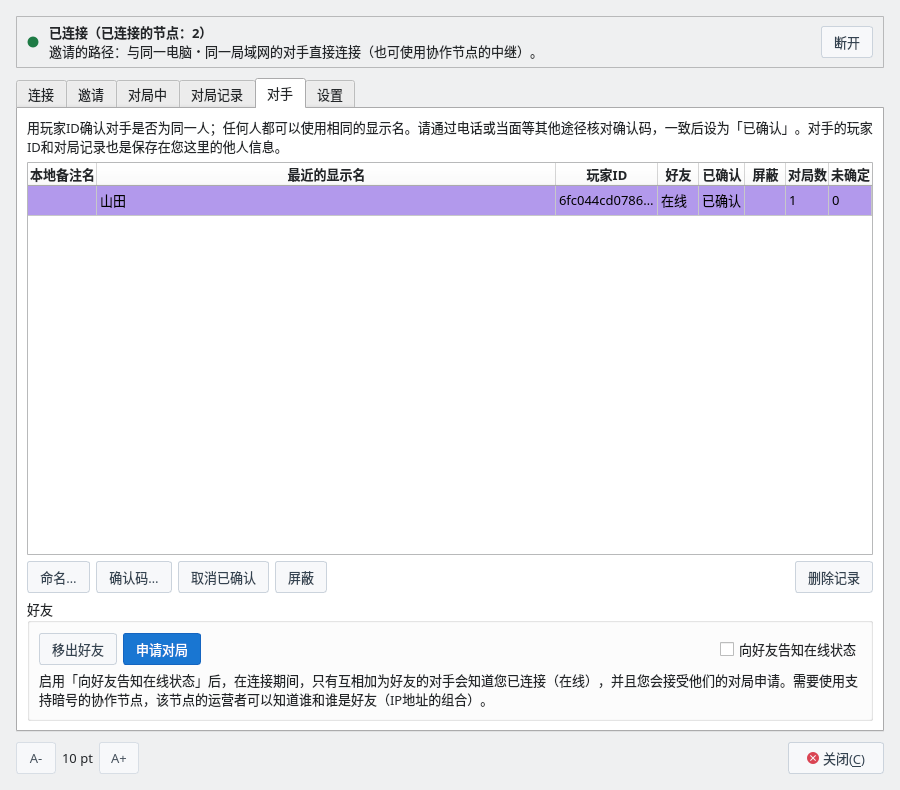
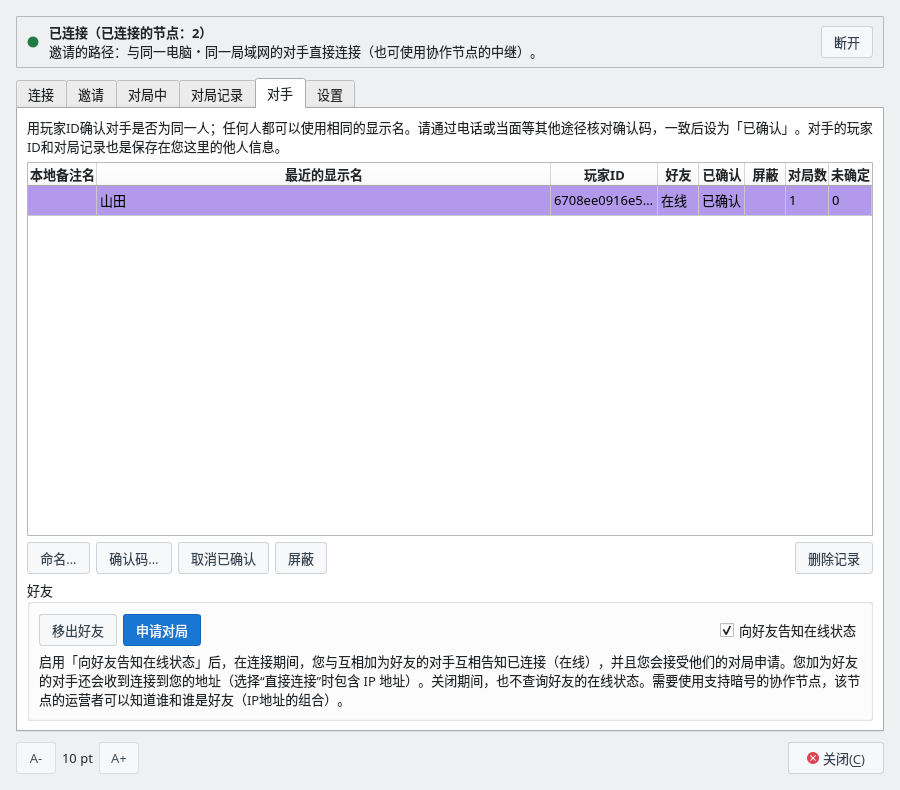
P2P対局のガイドの画像を、見本の LAN のアドレスで撮り直し、在席の説明を直す
2026-11-20〜21 に撮った「招待」タブの画像（4言語）の合言葉と招待文字列に、撮影した PC の
LAN のアドレスと docker のアドレスが入っていた（監査 2026-11-21 S15。それより前の画像は作り物の
値だった）。見本のアドレス（192.168.1.40）だけを持つネットワーク名前空間の中で撮り直す
（scripts/docs/p2p_netns.sh。外へはつながらない。次からもこれで撮る）。説明の文を変えた
「相手」タブの画像も撮り直す（双方が在席を知らせる。自分も知らせている間だけ調べるため）。

ガイド（p2p-game・p2p-direct・p2p-relay の4言語）に、友だちには接続先（直接つなぐ設定では
IP アドレス）が伝わること、在席を知らせていない間は友だちの在席も調べないこと、招待文字列に
入れるアドレスの選び方（回線のつながっていない仮想の口と、私設アドレスがあるときの loopback を
入れない）を書く。

diff --git a/docs/guide/p2p-game.html b/docs/guide/p2p-game.html
@@ -535,12 +535,12 @@
                         <tr><td><strong>ブロック／ブロックを解除</strong></td><td>その相手が招待でつないできても断ります。相手には、ほかの相手と交渉中か対局中だと伝わります。もう一度押すと解除します。</td></tr>
                         <tr><td><strong>友だちに追加／友だちから外す</strong></td><td>選んだ相手を友だちにします（64人まで。ブロックした相手は友だちにできません）。互いに友だちにした相手とは、接続しているかが分かり、招待を渡さずに対局を申し込めます。もう一度押すと外します。</td></tr>
                         <tr><td><strong>対局を申し込む</strong></td><td>「オンライン」の友だちに対局を申し込みます。相手に条件確認画面が開き、相手が「開始」を押すと対局が始まります。条件（持ち時間・先後・対局者）は、相手の「招待」タブのものを使います。</td></tr>
-                        <tr><td><strong>友だちに在席を知らせる</strong></td><td>接続している間、互いに友だちに追加した相手にだけ、接続していること（オンライン）を知らせ、対局の申し込みを受けます（既定は無効）。合言葉に対応した協力ノードを使います。協力ノードの運営者には、だれとだれが友だちか（IP アドレスの組）が分かります。</td></tr>
+                        <tr><td><strong>友だちに在席を知らせる</strong></td><td>接続している間、互いに友だちに追加した相手と、接続していること（オンライン）を知らせ合い、対局の申し込みを受けます（既定は無効）。無効の間は、友だちの在席も調べません。友だちに追加した相手には、あなたへの接続先（「直接つなぐ」では IP アドレス）も伝わります。合言葉に対応した協力ノードを使います。協力ノードの運営者には、だれとだれが友だちか（IP アドレスの組）が分かります。</td></tr>
                         <tr><td><strong>記録を削除</strong></td><td>その相手の名前・確認済み・ブロック・対局数の記録を消します。</td></tr>
                     </tbody>
                 </table>
                 <p class="guide-step-text">プレイヤー鍵はだれでも無料で作り直せるので、ブロックや過去の成績は作り直しで避けられます。</p>
-                <p class="guide-step-text">友だちの在席と申し込みには、2人とも、合言葉に対応した協力ノード（<code>--meet</code> を付けて起動したもの。<a href="p2p-relay.html#start">協力ノードを起動する</a>）を「接続」タブで登録して接続します。相手に「オンライン」と出るのは、このタブの「友だちに在席を知らせる」を有効にした人だけです（既定は無効）。互いに友だちに追加していなければ、どちらにも出ません。対局中・交渉中の相手は、オンラインと出ません。在席は、このタブを開いている間、1分ごとに調べ直します。</p>
+                <p class="guide-step-text">友だちの在席と申し込みには、2人とも、合言葉に対応した協力ノード（<code>--meet</code> を付けて起動したもの。<a href="p2p-relay.html#start">協力ノードを起動する</a>）を「接続」タブで登録して接続します。相手に「オンライン」と出るのは、このタブの「友だちに在席を知らせる」を有効にした人だけです（既定は無効）。友だちの在席を調べるのも、自分が有効にしている間だけです。互いに友だちに追加していなければ、どちらにも出ません。対局中・交渉中の相手は、オンラインと出ません。在席は、このタブを開いている間、1分ごとに調べ直します。</p>
             </div>
 
             <div class="guide-step">
@@ -854,9 +854,9 @@
                     </thead>
                     <tbody>
                         <tr><td><strong>対局相手</strong></td><td>プレイヤーID・表示名・条件。直接つなぐと、通信を調べれば IP アドレスも分かります（画面には出ません）。「協力ノードの中継だけを使う」にしていれば分かりません</td></tr>
-                        <tr><td><strong>友だちにした相手</strong></td><td>「友だちに在席を知らせる」を有効にして接続している間、あなたが接続していること（相手もあなたを友だちにしているときだけ）。申し込んでつながれば、対局相手と同じです</td></tr>
-                        <tr><td><strong>招待文字列・合言葉を見た人</strong></td><td>招待した側への接続先（直接つなぐ設定では IP アドレスが入ります。「同じPC・同じLAN」では、このPCのLANの中のアドレスがすべて入り、VPN や仮想の機器のアドレスも含みます。合言葉には、そのうち4件までが入ります。協力ノードを使う合言葉には接続先が入っていませんが、期限の間は、その合言葉で協力ノードから招待を受け取れます）</td></tr>
-                        <tr><td><strong>協力ノードの運営者</strong></td><td>IP アドレスと、どの IP どうしがつないだか。到達性の確認では、協力ノードから見えたあなたのアドレスを確かめてもらうだけで、LANの中のアドレスは送りません。合言葉に対応した協力ノードは、暗号化された招待を10分まで預かりますが、中身は読めません。指し手・プレイヤーID・表示名は見えません「友だちに在席を知らせる」を使う人については、だれとだれが友だちか（同じ番号を預けた IP アドレスと、引き取った IP アドレスの組）も分かります。</td></tr>
+                        <tr><td><strong>友だちにした相手</strong></td><td>「友だちに在席を知らせる」を有効にして接続している間、あなたが接続していることと、あなたへの接続先（「直接つなぐ」では IP アドレス。招待文字列と同じもの）。ShogiBoardQ は相手もあなたを友だちにしているときだけ読みますが、改造したアプリなら、あなたが友だちに追加しただけで読めます。申し込んでつながれば、対局相手と同じです</td></tr>
+                        <tr><td><strong>招待文字列・合言葉を見た人</strong></td><td>招待した側への接続先（直接つなぐ設定では IP アドレスが入ります。「同じPC・同じLAN」では、このPCのLANの中のアドレスが入ります（VPN など、使っているネットワークの口のアドレスも含みます。回線のつながっていない仮想の機器のアドレスは、Linux では入りません）。合言葉には、そのうち4件までが入ります。協力ノードを使う合言葉には接続先が入っていませんが、期限の間は、その合言葉で協力ノードから招待を受け取れます）</td></tr>
+                        <tr><td><strong>協力ノードの運営者</strong></td><td>IP アドレスと、どの IP どうしがつないだか。到達性の確認では、協力ノードから見えたあなたのアドレスを確かめてもらうだけで、LANの中のアドレスは送りません。合言葉に対応した協力ノードは、暗号化された招待を10分まで預かりますが、中身は読めません。指し手・プレイヤーID・表示名は見えません。「友だちに在席を知らせる」を使う人については、だれとだれが友だちか（同じ番号を預けた IP アドレスと、引き取った IP アドレスの組）も分かります。</td></tr>
                         <tr><td><strong>同じLANの機器</strong></td><td>「同じPC・同じLAN」で接続している間、このPCで P2P対局を動かしていること（待ち受けているポートにつなげば分かります）。招待文字列や合言葉がなければ、このPCのアドレスの一覧も対局も見えません</td></tr>
                         <tr><td><strong>対局記録（証跡）を受け取った人</strong></td><td>双方のプレイヤーID・条件・対局を始めたおおよその日時・全手順と自己申告の消費時間・双方で確定した結果。表示名・IPアドレス・手元で付けた名前は残りません</td></tr>
                     </tbody>

diff --git a/docs/en/guide/p2p-game.html b/docs/en/guide/p2p-game.html
@@ -535,12 +535,12 @@
                         <tr><td><strong>Block / Unblock</strong></td><td>Refuses that opponent even if they connect with an invitation. They are told you are busy negotiating or playing with someone else. Click again to unblock.</td></tr>
                         <tr><td><strong>Add Friend / Remove Friend</strong></td><td>Makes the selected opponent a friend (up to 64; a blocked opponent cannot be a friend). With an opponent who has also added you, you can see whether they are connected and ask for a game without passing an invitation. Click again to remove.</td></tr>
                         <tr><td><strong>Ask for a Game</strong></td><td>Asks a friend who is Online for a game. The confirmation screen opens on their side, and the game starts when they click Start. The conditions (time control, side, and player) are those on their Invitation tab.</td></tr>
-                        <tr><td><strong>Tell friends when I am online</strong></td><td>While you are connected, tells only the opponents who have added you as a friend and whom you have added that you are connected (Online), and accepts their requests for a game (off by default). It uses a cooperating node that supports passcodes. The operator of that node can tell who is friends with whom (as pairs of IP addresses).</td></tr>
+                        <tr><td><strong>Tell friends when I am online</strong></td><td>While you are connected, you and the opponents you have added as friends who have also added you tell each other that you are connected (Online), and you accept their requests for a game (off by default). While it is off, the app does not check your friends either. Opponents you have added as friends also receive the address to connect to you (your IP address with Connect directly). It uses a cooperating node that supports passcodes. The operator of that node can tell who is friends with whom (as pairs of IP addresses).</td></tr>
                         <tr><td><strong>Delete Record</strong></td><td>Removes the opponent's name, verified mark, block, and game count.</td></tr>
                     </tbody>
                 </table>
                 <p class="guide-step-text">Anyone can create a new player key for free, so a block or past results can be avoided by recreating the key.</p>
-                <p class="guide-step-text">To see friends online and ask them for a game, both players register a cooperating node that supports passcodes (one started with <code>--meet</code>; see <a href="p2p-relay.html#start">Start a Cooperating Node</a>) on the Connection tab and connect. Only a player who has turned on Tell friends when I am online on this tab (off by default) shows as Online to the other. Unless each has added the other as a friend, neither shows. An opponent who is playing or negotiating does not show as Online. While this tab is open, it checks again every minute.</p>
+                <p class="guide-step-text">To see friends online and ask them for a game, both players register a cooperating node that supports passcodes (one started with <code>--meet</code>; see <a href="p2p-relay.html#start">Start a Cooperating Node</a>) on the Connection tab and connect. Only a player who has turned on Tell friends when I am online on this tab (off by default) shows as Online to the other. The app also checks your friends only while you have it turned on. Unless each has added the other as a friend, neither shows. An opponent who is playing or negotiating does not show as Online. While this tab is open, it checks again every minute.</p>
             </div>
 
             <div class="guide-step">
@@ -854,9 +854,9 @@
                     </thead>
                     <tbody>
                         <tr><td><strong>Your opponent</strong></td><td>Your player ID, display name, and conditions. With a direct connection, they can also find your IP address by inspecting the traffic (it is not shown on screen). With Relay only (via a cooperating node), they cannot</td></tr>
-                        <tr><td><strong>An opponent you added as a friend</strong></td><td>That you are connected, while you are connected with Tell friends when I am online turned on (only if they have also added you as a friend). Once they ask and connect, the same as an opponent</td></tr>
-                        <tr><td><strong>Anyone who sees the invitation string or passcode</strong></td><td>The addresses for reaching the inviter (including the IP address when direct connections are used. With “Same PC / same LAN”, all of this PC's LAN addresses are included, also those of VPNs and virtual devices; a passcode contains up to four of them. A passcode that uses a cooperating node contains no address, but until it expires, the invitation can be collected from the cooperating node with it)</td></tr>
-                        <tr><td><strong>The operator of the cooperating node</strong></td><td>IP addresses and which IP addresses connected to each other. The reachability check only asks the node to test the address it saw; your LAN addresses are not sent. A cooperating node that supports passcodes keeps the encrypted invitation for up to 10 minutes but cannot read it. Not the moves, player IDs, or display names For users of Tell friends when I am online, also who is friends with whom (the pairs of IP addresses that deposited and collected the same number).</td></tr>
+                        <tr><td><strong>An opponent you added as a friend</strong></td><td>While you are connected with Tell friends when I am online turned on, that you are connected and the address to connect to you (your IP address with Connect directly; the same as in an invitation string). ShogiBoardQ reads it only if they have also added you as a friend, but a modified app can read it as soon as you add them. Once they ask and connect, the same as an opponent</td></tr>
+                        <tr><td><strong>Anyone who sees the invitation string or passcode</strong></td><td>The addresses for reaching the inviter (including the IP address when direct connections are used. With “Same PC / same LAN”, this PC's LAN addresses are included (also those of network interfaces in use, such as VPNs, but, on Linux, not those of virtual devices whose link is down); a passcode contains up to four of them. A passcode that uses a cooperating node contains no address, but until it expires, the invitation can be collected from the cooperating node with it)</td></tr>
+                        <tr><td><strong>The operator of the cooperating node</strong></td><td>IP addresses and which IP addresses connected to each other. The reachability check only asks the node to test the address it saw; your LAN addresses are not sent. A cooperating node that supports passcodes keeps the encrypted invitation for up to 10 minutes but cannot read it. Not the moves, player IDs, or display names. For users of Tell friends when I am online, also who is friends with whom (the pairs of IP addresses that deposited and collected the same number).</td></tr>
                         <tr><td><strong>Devices on the same LAN</strong></td><td>While you are connected with “Same PC / same LAN”, that this PC is running P2P play (anyone who connects to the listening port can tell). Without the invitation string or passcode, they see neither this PC's list of addresses nor the game</td></tr>
                         <tr><td><strong>Anyone who receives the game record (evidence)</strong></td><td>Both player IDs, the conditions, the approximate date and time the game started, all moves with self-reported time, and the result confirmed by both. Display names, IP addresses, and local names are not kept</td></tr>
                     </tbody>

diff --git a/docs/zh-tw/guide/p2p-game.html b/docs/zh-tw/guide/p2p-game.html
@@ -535,12 +535,12 @@
                         <tr><td><strong>封鎖／解除封鎖</strong></td><td>即使該對手透過邀請連線也會拒絕。對方會被告知您正在與他人協商或對局。再按一次可解除。</td></tr>
                         <tr><td><strong>加為好友／移出好友</strong></td><td>把選取的對手加為好友（最多 64 人。已封鎖的對手不能加為好友）。對於互相加為好友的對手，可以知道對方是否已連線，不需要傳遞邀請就能申請對局。再按一次則移出。</td></tr>
                         <tr><td><strong>申請對局</strong></td><td>向「線上」的好友申請對局。對方會開啟條件確認畫面，對方按「開始」後對局開始。條件（用時規則、先後手、對局者）使用對方「邀請」分頁中的設定。</td></tr>
-                        <tr><td><strong>向好友告知上線狀態</strong></td><td>在連線期間，只向互相加為好友的對手告知您已連線（線上），並接受他們的對局申請（預設關閉）。需要使用支援暗號的協作節點。協作節點的營運者可以知道誰和誰是好友（IP 位址的組合）。</td></tr>
+                        <tr><td><strong>向好友告知上線狀態</strong></td><td>在連線期間，與互相加為好友的對手互相告知已連線（線上），並接受他們的對局申請（預設關閉）。關閉期間，也不查詢好友的上線狀態。您加為好友的對手還會收到連線到您的位址（選擇「直接連線」時包含 IP 位址）。需要使用支援暗號的協作節點。協作節點的營運者可以知道誰和誰是好友（IP 位址的組合）。</td></tr>
                         <tr><td><strong>刪除記錄</strong></td><td>刪除該對手的名稱、已確認、封鎖和對局數的記錄。</td></tr>
                     </tbody>
                 </table>
                 <p class="guide-step-text">任何人都可以免費重新產生玩家金鑰，因此封鎖和過去的成績可以透過重新產生來規避。</p>
-                <p class="guide-step-text">要查看好友的上線狀態並申請對局，雙方都要在「連線」分頁註冊支援暗號的協作節點（加上 <code>--meet</code> 啟動的節點。<a href="p2p-relay.html#start">啟動協作節點</a>）並連線。只有在此分頁中啟用了「向好友告知上線狀態」的人（預設關閉），才會在對方那裡顯示為「線上」。沒有互相加為好友時，雙方都不會顯示。對局中、協商中的對手不顯示為線上。開啟此分頁期間，每分鐘重新查詢一次。</p>
+                <p class="guide-step-text">要查看好友的上線狀態並申請對局，雙方都要在「連線」分頁註冊支援暗號的協作節點（加上 <code>--meet</code> 啟動的節點。<a href="p2p-relay.html#start">啟動協作節點</a>）並連線。只有在此分頁中啟用了「向好友告知上線狀態」的人（預設關閉），才會在對方那裡顯示為「線上」。查詢好友的上線狀態，也只在自己啟用期間進行。沒有互相加為好友時，雙方都不會顯示。對局中、協商中的對手不顯示為線上。開啟此分頁期間，每分鐘重新查詢一次。</p>
             </div>
 
             <div class="guide-step">
@@ -854,9 +854,9 @@
                     </thead>
                     <tbody>
                         <tr><td><strong>對局對手</strong></td><td>玩家ID、顯示名稱、條件。直接連線時，對手查看通訊還能得知 IP 位址（畫面上不顯示）。選擇「僅使用協作節點的中繼」後無法得知</td></tr>
-                        <tr><td><strong>加為好友的對手</strong></td><td>在啟用「向好友告知上線狀態」並連線期間，您已連線這件事（僅當對方也把您加為好友時）。對方申請並連線後，與對局對手相同</td></tr>
-                        <tr><td><strong>看到邀請字串、暗號的人</strong></td><td>連線到邀請方的位址（使用直接連線的設定時包含 IP 位址。在「同一電腦・同一區域網路」中，包含這台電腦在區域網路內的全部位址，也包括 VPN 和虛擬裝置的位址。暗號中包含其中最多 4 個。使用協作節點的暗號中不包含連線位址，但在期限內，可以用該暗號從協作節點取回邀請）</td></tr>
-                        <tr><td><strong>協作節點的營運者</strong></td><td>IP 位址，以及哪些 IP 位址之間建立了連線。確認可達性時，只請協作節點確認它看到的你的位址，不傳送區域網路內的位址。支援暗號的協作節點最多存放加密的邀請 10 分鐘，但無法讀取其內容。看不到著手、玩家ID 和顯示名稱對於使用「向好友告知上線狀態」的人，還能知道誰和誰是好友（存放同一個編號的 IP 位址與取回它的 IP 位址的組合）。</td></tr>
+                        <tr><td><strong>加為好友的對手</strong></td><td>在啟用「向好友告知上線狀態」並連線期間，您已連線這件事，以及連線到您的位址（選擇「直接連線」時包含 IP 位址，與邀請字串中的相同）。ShogiBoardQ 僅在對方也把您加為好友時讀取，但經過修改的應用程式只要您把對方加為好友就能讀取。對方申請並連線後，與對局對手相同</td></tr>
+                        <tr><td><strong>看到邀請字串、暗號的人</strong></td><td>連線到邀請方的位址（使用直接連線的設定時包含 IP 位址。在「同一電腦・同一區域網路」中，包含這台電腦在區域網路內的位址（也包括 VPN 等正在使用的網路介面的位址，在 Linux 上不包括線路未連接的虛擬裝置的位址）。暗號中包含其中最多 4 個。使用協作節點的暗號中不包含連線位址，但在期限內，可以用該暗號從協作節點取回邀請）</td></tr>
+                        <tr><td><strong>協作節點的營運者</strong></td><td>IP 位址，以及哪些 IP 位址之間建立了連線。確認可達性時，只請協作節點確認它看到的你的位址，不傳送區域網路內的位址。支援暗號的協作節點最多存放加密的邀請 10 分鐘，但無法讀取其內容。看不到著手、玩家ID 和顯示名稱。對於使用「向好友告知上線狀態」的人，還能知道誰和誰是好友（存放同一個編號的 IP 位址與取回它的 IP 位址的組合）。</td></tr>
                         <tr><td><strong>同一區域網路內的裝置</strong></td><td>以「同一電腦・同一區域網路」連線期間，能得知這台電腦正在執行 P2P 對局（連線到監聽連接埠即可知道）。沒有邀請字串或暗號時，看不到這台電腦的位址清單，也看不到對局</td></tr>
                         <tr><td><strong>收到對局記錄（憑證）的人</strong></td><td>雙方的玩家ID、條件、對局開始的大致日期與時間、全部著手與自報用時、雙方確定的結果。不保存顯示名稱、IP 位址和本機備註名稱</td></tr>
                     </tbody>

diff --git a/docs/zh-cn/guide/p2p-game.html b/docs/zh-cn/guide/p2p-game.html
@@ -535,12 +535,12 @@
                         <tr><td><strong>屏蔽／解除屏蔽</strong></td><td>即使该对手通过邀请连接也会拒绝。对方会被告知您正在与他人协商或对局。再次点击可解除。</td></tr>
                         <tr><td><strong>加为好友／移出好友</strong></td><td>把选中的对手加为好友（最多 64 人。已屏蔽的对手不能加为好友）。对于互相加为好友的对手，可以知道对方是否已连接，不需要传递邀请就能申请对局。再点一次则移出。</td></tr>
                         <tr><td><strong>申请对局</strong></td><td>向“在线”的好友申请对局。对方会打开条件确认画面，对方点击“开始”后对局开始。条件（用时规则、先后手、对局者）使用对方“邀请”标签页中的设置。</td></tr>
-                        <tr><td><strong>向好友告知在线状态</strong></td><td>在连接期间，只向互相加为好友的对手告知您已连接（在线），并接受他们的对局申请（默认关闭）。需要使用支持暗号的协作节点。协作节点的运营者可以知道谁和谁是好友（IP 地址的组合）。</td></tr>
+                        <tr><td><strong>向好友告知在线状态</strong></td><td>在连接期间，与互相加为好友的对手互相告知已连接（在线），并接受他们的对局申请（默认关闭）。关闭期间，也不查询好友的在线状态。您加为好友的对手还会收到连接到您的地址（选择“直接连接”时包含 IP 地址）。需要使用支持暗号的协作节点。协作节点的运营者可以知道谁和谁是好友（IP 地址的组合）。</td></tr>
                         <tr><td><strong>删除记录</strong></td><td>删除该对手的名称、已确认、屏蔽和对局数的记录。</td></tr>
                     </tbody>
                 </table>
                 <p class="guide-step-text">任何人都可以免费重新生成玩家密钥，因此屏蔽和过去的成绩可以通过重新生成来规避。</p>
-                <p class="guide-step-text">要查看好友的在线状态并申请对局，双方都要在“连接”标签页中注册支持暗号的协作节点（加上 <code>--meet</code> 启动的节点。<a href="p2p-relay.html#start">启动协作节点</a>）并连接。只有在此标签页中启用了“向好友告知在线状态”的人（默认关闭），才会在对方那里显示为“在线”。没有互相加为好友时，双方都不会显示。对局中、协商中的对手不显示为在线。打开此标签页期间，每分钟重新查询一次。</p>
+                <p class="guide-step-text">要查看好友的在线状态并申请对局，双方都要在“连接”标签页中注册支持暗号的协作节点（加上 <code>--meet</code> 启动的节点。<a href="p2p-relay.html#start">启动协作节点</a>）并连接。只有在此标签页中启用了“向好友告知在线状态”的人（默认关闭），才会在对方那里显示为“在线”。查询好友的在线状态，也只在自己启用期间进行。没有互相加为好友时，双方都不会显示。对局中、协商中的对手不显示为在线。打开此标签页期间，每分钟重新查询一次。</p>
             </div>
 
             <div class="guide-step">
@@ -854,9 +854,9 @@
                     </thead>
                     <tbody>
                         <tr><td><strong>对局对手</strong></td><td>玩家ID、显示名、条件。直接连接时，对手查看通信还能得知 IP 地址（画面上不显示）。选择“仅使用协作节点的中继”后无法得知</td></tr>
-                        <tr><td><strong>加为好友的对手</strong></td><td>在启用“向好友告知在线状态”并连接期间，您已连接这件事（仅当对方也把您加为好友时）。对方申请并连接后，与对局对手相同</td></tr>
-                        <tr><td><strong>看到邀请字符串、暗号的人</strong></td><td>连接到邀请方的地址（使用直接连接的设置时包含 IP 地址。在“同一电脑・同一局域网”中，包含这台电脑在局域网内的全部地址，也包括 VPN 和虚拟设备的地址。暗号中包含其中最多 4 个。使用协作节点的暗号中不包含连接地址，但在期限内，可以用该暗号从协作节点取回邀请）</td></tr>
-                        <tr><td><strong>协作节点的运营者</strong></td><td>IP 地址，以及哪些 IP 地址之间建立了连接。确认可达性时，只请协作节点确认它看到的你的地址，不发送局域网内的地址。支持暗号的协作节点最多存放加密的邀请 10 分钟，但无法读取其内容。看不到着手、玩家ID 和显示名对于使用“向好友告知在线状态”的人，还能知道谁和谁是好友（存放同一个编号的 IP 地址与取回它的 IP 地址的组合）。</td></tr>
+                        <tr><td><strong>加为好友的对手</strong></td><td>在启用“向好友告知在线状态”并连接期间，您已连接这件事，以及连接到您的地址（选择“直接连接”时包含 IP 地址，与邀请字符串中的相同）。ShogiBoardQ 仅在对方也把您加为好友时读取，但经过改造的应用只要您把对方加为好友就能读取。对方申请并连接后，与对局对手相同</td></tr>
+                        <tr><td><strong>看到邀请字符串、暗号的人</strong></td><td>连接到邀请方的地址（使用直接连接的设置时包含 IP 地址。在“同一电脑・同一局域网”中，包含这台电脑在局域网内的地址（也包括 VPN 等正在使用的网络接口的地址，在 Linux 上不包括线路未连接的虚拟设备的地址）。暗号中包含其中最多 4 个。使用协作节点的暗号中不包含连接地址，但在期限内，可以用该暗号从协作节点取回邀请）</td></tr>
+                        <tr><td><strong>协作节点的运营者</strong></td><td>IP 地址，以及哪些 IP 地址之间建立了连接。确认可达性时，只请协作节点确认它看到的你的地址，不发送局域网内的地址。支持暗号的协作节点最多存放加密的邀请 10 分钟，但无法读取其内容。看不到着手、玩家ID 和显示名。对于使用“向好友告知在线状态”的人，还能知道谁和谁是好友（存放同一个编号的 IP 地址与取回它的 IP 地址的组合）。</td></tr>
                         <tr><td><strong>同一局域网内的设备</strong></td><td>以“同一电脑・同一局域网”连接期间，能得知这台电脑正在运行 P2P 对局（连接到监听端口即可知道）。没有邀请字符串或暗号时，看不到这台电脑的地址列表，也看不到对局</td></tr>
                         <tr><td><strong>收到对局记录（凭证）的人</strong></td><td>双方的玩家ID、条件、对局开始的大致日期和时间、全部着手与自报用时、双方确定的结果。不保存显示名、IP 地址和本地备注名</td></tr>
                     </tbody>

diff --git a/docs/guide/p2p-direct.html b/docs/guide/p2p-direct.html
@@ -124,7 +124,7 @@
                 <ul class="guide-step-text">
                     <li><strong>「協力ノード」</strong>：登録しなくてかまいません。「同じPC・同じLAN」で「直接つなぐ（既定）」を選んでいる間は、欄も出ません（「この設定では要りません。…」と出ます）。</li>
                     <li><strong>「相手とのつなぎ方」</strong>：「直接つなぐ（既定）」のままにします。「協力ノードの中継だけを使う」を選ぶと、LANの中の直接の接続も使わなくなり、協力ノードを登録していなければつながりません（「このままでは、中継を使えません」と出ます）。</li>
-                    <li><strong>相手に見えるアドレス</strong>：LANの中のアドレスだけです。インターネット上の IP アドレスは相手に渡りません。招待文字列には、このPCのLANの中のアドレスがすべて入ります（VPN や仮想の機器のアドレスも含みます）。合言葉にも、LANの中のアドレスが入ります。招待文字列と合言葉は、相手だけに伝えてください。</li>
+                    <li><strong>相手に見えるアドレス</strong>：LANの中のアドレスだけです。インターネット上の IP アドレスは相手に渡りません。招待文字列には、このPCのLANの中のアドレスが入ります（VPN など、使っているネットワークの口のアドレスも含みます。回線のつながっていない仮想の機器のアドレスは、Linux では入りません）。合言葉にも、LANの中のアドレスが入ります。招待文字列と合言葉は、相手だけに伝えてください。</li>
                     <li><strong>使用期限</strong>：ありません。ビルドから180日を過ぎても使えます（期限があるのは「インターネット」だけです）。</li>
                 </ul>
             </div>
@@ -358,7 +358,7 @@
                     <span class="guide-step-number">Q</span>
                     <span class="guide-step-title">「到達候補」の数は、何の数ですか</span>
                 </div>
-                <p class="guide-step-text">招待文字列に入っている接続先の数です（8件まで）。「同じPC・同じLAN」では、このPCのLANの中のアドレス（ネットワークの口ごとに、UDP と TCP で1つずつ。VPN や仮想の機器のアドレスも含みます）と、同じPCの中だけで使うアドレスが入るので、PCによって数が違います。</p>
+                <p class="guide-step-text">招待文字列に入っている接続先の数です（8件まで）。「同じPC・同じLAN」では、このPCのLANの中のアドレス（ネットワークの口ごとに、UDP と TCP で1つずつ。VPN など、使っている口のアドレスも含み、回線のつながっていない仮想の機器のアドレスは、Linux では入りません）が入るので、PCによって数が違います。LANの中のアドレスが1つもないPCでは、代わりに同じPCの中だけで使うアドレスが入ります。</p>
             </div>
 
             <div class="guide-step">

diff --git a/docs/guide/p2p-relay.html b/docs/guide/p2p-relay.html
@@ -490,7 +490,7 @@ $ journalctl -u sbq-coop-node    # PeerId を確かめる</code></pre></div>
                     <li>選んだ人が、受け取った招待文字列を確かめると、使えるのは協力ノードを経由する宛先だけになります（招待した人が選んでいなければ、「到達候補: N 件（使える候補 M 件）」の使える候補が、到達候補より少なくなります）。</li>
                     <li>「接続する」で接続して対局を始めると、2人とも「対局中」タブの「経路」が「中継」になります。</li>
                 </ul>
-                <p class="guide-step-text">到達候補と使える候補の数は、PCによって変わります。「同じPC・同じLAN」の招待文字列には、招待した人のPCのLANの中のアドレス（ネットワークの口ごとに、UDP と TCP で1つずつ。Docker などの仮想の口も含みます）、協力ノードを経由する宛先（協力ノードを <code>0.0.0.0</code> で待ち受けさせたときは、協力ノードのPCのアドレスごとに1つ）、同じPCの中だけで使えるアドレスが、この順に8件まで入ります。「協力ノードの中継だけを使う」を選んだ人が使えるのは、このうち協力ノードを経由する宛先だけです。</p>
+                <p class="guide-step-text">到達候補と使える候補の数は、PCによって変わります。「同じPC・同じLAN」の招待文字列には、招待した人のPCのLANの中のアドレス（ネットワークの口ごとに、UDP と TCP で1つずつ。回線のつながっていない Docker などの仮想の口は、Linux では入りません。LANの中のアドレスが1つもなければ、代わりに同じPCの中だけで使えるアドレス）と、協力ノードを経由する宛先（協力ノードを <code>0.0.0.0</code> で待ち受けさせたときは、協力ノードのPCのアドレスごとに1つ）が、この順に8件まで入ります。「協力ノードの中継だけを使う」を選んだ人が使えるのは、このうち協力ノードを経由する宛先だけです。</p>
                 <p class="guide-step-text">LANの中で確かめられるのは、協力ノードの起動、協力ノードの登録、中継を通る招待と対局です。到達性の確認、ルーターを通り抜けて直接つなぐ動き（ホールパンチング）、使用期限は「インターネット」だけのものなので、LANの中では試せません。インターネット越しの対局に使うときは、協力ノードを <code>--network sbq-limited-1</code> で起動し直し、アプリの「相手のいる場所」を「インターネット」に戻します。</p>
             </div>
 

diff --git a/docs/en/guide/p2p-direct.html b/docs/en/guide/p2p-direct.html
@@ -124,7 +124,7 @@
                 <ul class="guide-step-text">
                     <li><strong>Cooperating nodes</strong>: You do not need to register any. While Same PC / same LAN and Connect directly (default) are selected, the list is not even shown (you see "Not needed with this setting. …").</li>
                     <li><strong>How to connect to your opponent</strong>: Leave it at Connect directly (default). If you choose Relay only (via a cooperating node), the app stops using direct connections within the LAN as well, and you cannot connect unless you have registered a cooperating node (you see "No relay is available with this setting").</li>
-                    <li><strong>Address your opponent can see</strong>: Only your address on the LAN. Your IP address on the Internet is not given to the opponent. The invitation string contains all of this PC's LAN addresses (including those of VPNs and virtual devices), and the passcode contains LAN addresses too, so give them only to your opponent.</li>
+                    <li><strong>Address your opponent can see</strong>: Only your address on the LAN. Your IP address on the Internet is not given to the opponent. The invitation string contains this PC's LAN addresses (including those of network interfaces in use, such as VPNs, but, on Linux, not those of virtual devices whose link is down), and the passcode contains LAN addresses too, so give them only to your opponent.</li>
                     <li><strong>Expiry</strong>: None. It keeps working more than 180 days after the build (only the Internet network expires).</li>
                 </ul>
             </div>
@@ -358,7 +358,7 @@
                     <span class="guide-step-number">Q</span>
                     <span class="guide-step-title">What does the number of addresses mean?</span>
                 </div>
-                <p class="guide-step-text">It is the number of addresses the invitation contains (up to 8). With Same PC / same LAN, the invitation contains this PC's addresses on the LAN (one each for UDP and TCP per network interface, including those of VPNs and virtual devices) and addresses used only within the same PC, so the number differs from PC to PC.</p>
+                <p class="guide-step-text">It is the number of addresses the invitation contains (up to 8). With Same PC / same LAN, the invitation contains this PC's addresses on the LAN (one each for UDP and TCP per network interface, including those of interfaces in use, such as VPNs, but, on Linux, not those of virtual devices whose link is down), so the number differs from PC to PC. On a PC with no LAN address, it contains addresses used only within the same PC instead.</p>
             </div>
 
             <div class="guide-step">

diff --git a/docs/zh-tw/guide/p2p-direct.html b/docs/zh-tw/guide/p2p-direct.html
@@ -124,7 +124,7 @@
                 <ul class="guide-step-text">
                     <li><strong>「協作節點」</strong>：不需要註冊。在「同一電腦・同一區域網路」下選擇「直接連線（預設）」期間，連輸入欄也不會顯示（顯示「此設定下不需要。…」）。</li>
                     <li><strong>「與對手的連線方式」</strong>：保持「直接連線（預設）」。選擇「僅使用協作節點的中繼」後，區域網路內的直接連線也不再使用，沒有註冊協作節點就無法連線（顯示「這樣無法使用中繼」）。</li>
-                    <li><strong>對手能看到的位址</strong>：只有區域網路內的位址。網際網路上的 IP 位址不會交給對手。邀請字串中包含這台電腦在區域網路內的全部位址（也包括 VPN 和虛擬裝置的位址），暗號中也包含區域網路內的位址，請只告訴對手。</li>
+                    <li><strong>對手能看到的位址</strong>：只有區域網路內的位址。網際網路上的 IP 位址不會交給對手。邀請字串中包含這台電腦在區域網路內的位址（也包括 VPN 等正在使用的網路介面的位址，在 Linux 上不包括線路未連接的虛擬裝置的位址），暗號中也包含區域網路內的位址，請只告訴對手。</li>
                     <li><strong>使用期限</strong>：沒有。建置後超過 180 天仍可使用（只有「網際網路」有期限）。</li>
                 </ul>
             </div>
@@ -358,7 +358,7 @@
                     <span class="guide-step-number">Q</span>
                     <span class="guide-step-title">「位址」的數量是什麼的數量</span>
                 </div>
-                <p class="guide-step-text">是邀請字串中包含的連線位址的數量（最多 8 個）。在「同一電腦・同一區域網路」下，其中包含這台電腦在區域網路內的位址（每個網路介面各有 UDP 和 TCP 一個，也包括 VPN 和虛擬裝置的位址）和只在同一台電腦內使用的位址，因此數量因電腦而異。</p>
+                <p class="guide-step-text">是邀請字串中包含的連線位址的數量（最多 8 個）。在「同一電腦・同一區域網路」下，其中包含這台電腦在區域網路內的位址（每個網路介面各有 UDP 和 TCP 一個，也包括 VPN 等正在使用的介面的位址，在 Linux 上不包括線路未連接的虛擬裝置的位址），因此數量因電腦而異。沒有區域網路內位址的電腦，改為包含只在同一台電腦內使用的位址。</p>
             </div>
 
             <div class="guide-step">

diff --git a/docs/zh-cn/guide/p2p-direct.html b/docs/zh-cn/guide/p2p-direct.html
@@ -124,7 +124,7 @@
                 <ul class="guide-step-text">
                     <li><strong>“协作节点”</strong>：无需注册。以“同一电脑・同一局域网”选择“直接连接（默认）”期间，输入栏也不会显示（显示“此设置下不需要。…”）。</li>
                     <li><strong>“与对手的连接方式”</strong>：保持“直接连接（默认）”不变。选择“仅使用协作节点的中继”后，局域网内的直接连接也不再使用，没有注册协作节点就无法连接（显示“这样无法使用中继”）。</li>
-                    <li><strong>对手能看到的地址</strong>：只有局域网内的地址。互联网上的 IP 地址不会交给对手。邀请字符串中包含这台电脑在局域网内的全部地址（也包括 VPN 和虚拟设备的地址），暗号中也包含局域网内的地址，请只告诉对手。</li>
+                    <li><strong>对手能看到的地址</strong>：只有局域网内的地址。互联网上的 IP 地址不会交给对手。邀请字符串中包含这台电脑在局域网内的地址（也包括 VPN 等正在使用的网络接口的地址，在 Linux 上不包括线路未连接的虚拟设备的地址），暗号中也包含局域网内的地址，请只告诉对手。</li>
                     <li><strong>使用期限</strong>：没有。构建后超过 180 天仍可使用（只有“互联网”有期限）。</li>
                 </ul>
             </div>
@@ -358,7 +358,7 @@
                     <span class="guide-step-number">Q</span>
                     <span class="guide-step-title">“地址”的数量是什么的数量</span>
                 </div>
-                <p class="guide-step-text">是邀请字符串中包含的连接地址的数量（最多 8 个）。在“同一电脑・同一局域网”下，其中包含这台电脑在局域网内的地址（每个网络接口各有 UDP 和 TCP 一个，也包括 VPN 和虚拟设备的地址）和只在同一台电脑内使用的地址，因此数量因电脑而异。</p>
+                <p class="guide-step-text">是邀请字符串中包含的连接地址的数量（最多 8 个）。在“同一电脑・同一局域网”下，其中包含这台电脑在局域网内的地址（每个网络接口各有 UDP 和 TCP 一个，也包括 VPN 等正在使用的接口的地址，在 Linux 上不包括线路未连接的虚拟设备的地址），因此数量因电脑而异。没有局域网内地址的电脑，改为包含只在同一台电脑内使用的地址。</p>
             </div>
 
             <div class="guide-step">

diff --git a/docs/en/guide/p2p-relay.html b/docs/en/guide/p2p-relay.html
@@ -490,7 +490,7 @@ $ journalctl -u sbq-coop-node    # check the PeerId</code></pre></div>
                     <li>When the player who chose it checks an invitation they received, only the addresses that go through the cooperating node are usable (if the inviter has not chosen it, the usable count in "Addresses: N (M usable)" is smaller than the address count).</li>
                     <li>After connecting with Connect and starting the game, Route on the Game tab shows "relay" for both players.</li>
                 </ul>
-                <p class="guide-step-text">The address counts differ from PC to PC. With Same PC / same LAN, an invitation contains, in this order and up to 8 in total: the LAN addresses of the inviter's PC (one each for UDP and TCP per network interface, including virtual interfaces such as Docker's), addresses that go through the cooperating node (one per address of the cooperating node's PC when it listens on <code>0.0.0.0</code>), and addresses that work only inside the same PC. A player who chose Relay only (via a cooperating node) can use only the addresses that go through the cooperating node.</p>
+                <p class="guide-step-text">The address counts differ from PC to PC. With Same PC / same LAN, an invitation contains, in this order and up to 8 in total: the LAN addresses of the inviter's PC (one each for UDP and TCP per network interface, but, on Linux, not virtual interfaces such as Docker's whose link is down; on a PC with no LAN address, addresses that work only inside the same PC instead), and addresses that go through the cooperating node (one per address of the cooperating node's PC when it listens on <code>0.0.0.0</code>). A player who chose Relay only (via a cooperating node) can use only the addresses that go through the cooperating node.</p>
                 <p class="guide-step-text">What you can check on a LAN is starting the cooperating node, registering it, and inviting and playing through the relay. The reachability check, connecting directly through routers (hole punching), and the expiry belong only to the Internet network, so they cannot be tried on a LAN. To use the cooperating node for games over the Internet, start it again with <code>--network sbq-limited-1</code> and set Where your opponent is in the app back to Internet.</p>
             </div>
 

diff --git a/docs/zh-tw/guide/p2p-relay.html b/docs/zh-tw/guide/p2p-relay.html
@@ -490,7 +490,7 @@ $ journalctl -u sbq-coop-node    # 確認 PeerId</code></pre></div>
                     <li>選擇此項的人檢查收到的邀請字串時，可用的只有經由協作節點的位址（邀請方沒有選擇此項時，「位址：N 個（可用 M 個）」中可用的數量比位址的數量少）。</li>
                     <li>用「連線」連線並開始對局後，兩人的「對局中」分頁的「路徑」都是「中繼」。</li>
                 </ul>
-                <p class="guide-step-text">位址的數量和可用的數量因電腦而異。「同一電腦・同一區域網路」的邀請字串中，依下列順序最多放入 8 個：邀請方電腦在區域網路內的位址（每個網路介面各有 UDP 和 TCP 一個，也包括 Docker 等的虛擬介面）、經由協作節點的位址（協作節點監聽 <code>0.0.0.0</code> 時，協作節點所在電腦的每個位址各一個）、只能在同一台電腦內使用的位址。選擇了「僅使用協作節點的中繼」的人只能使用其中經由協作節點的位址。</p>
+                <p class="guide-step-text">位址的數量和可用的數量因電腦而異。「同一電腦・同一區域網路」的邀請字串中，依下列順序最多放入 8 個：邀請方電腦在區域網路內的位址（每個網路介面各有 UDP 和 TCP 一個，在 Linux 上不包括線路未連接的 Docker 等虛擬介面。沒有區域網路內位址時，改為只能在同一台電腦內使用的位址）、經由協作節點的位址（協作節點監聽 <code>0.0.0.0</code> 時，協作節點所在電腦的每個位址各一個）。選擇了「僅使用協作節點的中繼」的人只能使用其中經由協作節點的位址。</p>
                 <p class="guide-step-text">在區域網路內可以確認的是協作節點的啟動、協作節點的註冊，以及經由中繼的邀請和對局。可達性確認、穿過路由器直接連線（打洞）和使用期限只屬於「網際網路」，在區域網路內無法試用。要用於透過網際網路的對局時，請用 <code>--network sbq-limited-1</code> 重新啟動協作節點，並把應用程式的「對手所在位置」改回「網際網路」。</p>
             </div>
 

diff --git a/docs/zh-cn/guide/p2p-relay.html b/docs/zh-cn/guide/p2p-relay.html
@@ -490,7 +490,7 @@ $ journalctl -u sbq-coop-node    # 确认 PeerId</code></pre></div>
                     <li>选择此项的人检查收到的邀请字符串时，可用的只有经由协作节点的地址（邀请方没有选择此项时，“地址：N 个（可用 M 个）”中可用的数量比地址的数量少）。</li>
                     <li>用“连接”连接并开始对局后，两人的“对局中”标签页的“路径”都是“中继”。</li>
                 </ul>
-                <p class="guide-step-text">地址的数量和可用的数量因电脑而异。“同一电脑・同一局域网”的邀请字符串中，按以下顺序最多放入 8 个：邀请方电脑在局域网内的地址（每个网络接口各有 UDP 和 TCP 一个，也包括 Docker 等的虚拟接口）、经由协作节点的地址（协作节点监听 <code>0.0.0.0</code> 时，协作节点所在电脑的每个地址各一个）、只能在同一台电脑内使用的地址。选择了“仅使用协作节点的中继”的人只能使用其中经由协作节点的地址。</p>
+                <p class="guide-step-text">地址的数量和可用的数量因电脑而异。“同一电脑・同一局域网”的邀请字符串中，按以下顺序最多放入 8 个：邀请方电脑在局域网内的地址（每个网络接口各有 UDP 和 TCP 一个，在 Linux 上不包括线路未连接的 Docker 等虚拟接口。没有局域网内地址时，改为只能在同一台电脑内使用的地址）、经由协作节点的地址（协作节点监听 <code>0.0.0.0</code> 时，协作节点所在电脑的每个地址各一个）。选择了“仅使用协作节点的中继”的人只能使用其中经由协作节点的地址。</p>
                 <p class="guide-step-text">在局域网内可以确认的是协作节点的启动、协作节点的注册，以及经由中继的邀请和对局。可达性确认、穿过路由器直接连接（打洞）和使用期限只属于“互联网”，在局域网内无法试用。要用于通过互联网的对局时，请用 <code>--network sbq-limited-1</code> 重新启动协作节点，并把应用的“对手所在位置”改回“互联网”。</p>
             </div>
 
